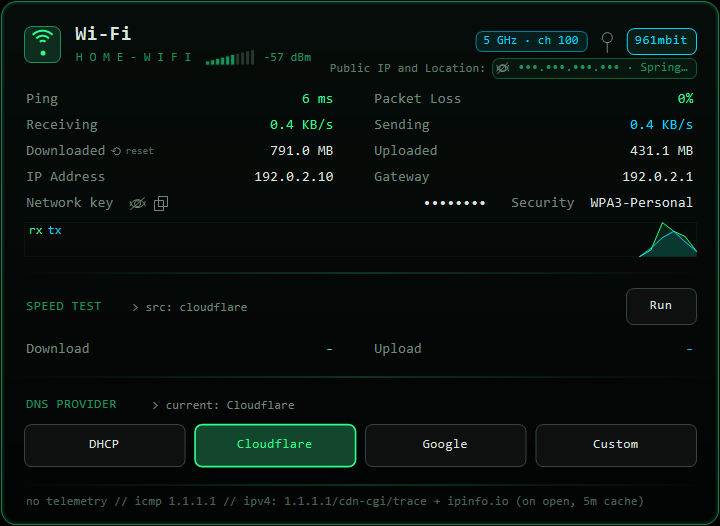
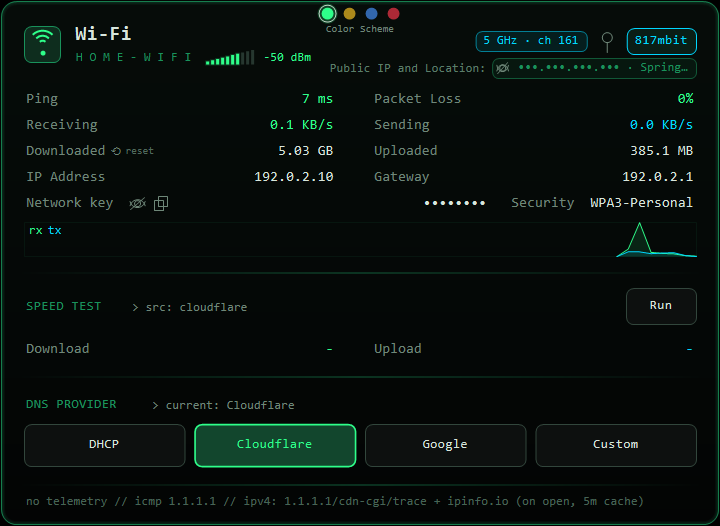
Add color scheme selector (green/yellow/blue/red), docs and v1.1.0 checksums

diff --git a/NetPanel.cs b/NetPanel.cs
@@ -14,7 +14,7 @@ class P{
   if(a.Length>0&&a[0]=="--trigger"){try{EventWaitHandle.OpenExisting("NetPanel_"+P.U+"_test").Set();}catch{return 2;}return 0;}
   if(!created&&shot==null) return 0;
   Application.EnableVisualStyles();
-  if(shot!=null){var f=new Panel();f.Shot(shot,speed);return 0;}
+  if(shot!=null){var f=new Panel();int ti=Array.IndexOf(a,"--theme");if(ti>=0&&ti+1<a.Length){int tv=Array.IndexOf(Th.Names,a[ti+1]);if(tv>=0)Th.Id=tv;}if(a.Contains("--demo"))Demo=true;f.Shot(shot,speed);return 0;}
   new Tray();Application.Run();GC.KeepAlive(m);return 0;}
  static int SetDns(string[] a){ // --setdns ifIndex mode [servers...]
   string idx=a[1],mode=a[2];string cmd;
@@ -31,11 +31,28 @@ class P{
   return NetworkInterface.GetAllNetworkInterfaces().FirstOrDefault(n=>n.OperationalStatus==OperationalStatus.Up&&n.NetworkInterfaceType!=NetworkInterfaceType.Loopback);}
  public static int Index(NetworkInterface n){try{return n.GetIPProperties().GetIPv4Properties().Index;}catch{return -1;}}
 }
+// ---------- colour themes ----------
+// 0 green (original colours, returned unchanged), 1 yellow, 2 blue, 3 red. Other themes hue-rotate the green palette.
+static class Th{
+ public static int Id;public static readonly string[] Names={"green","yellow","blue","red"};
+ static readonly double[] Hue={0,45,215,354},Lit={0,-0.02,0.05,0.02};static Dictionary<int,Color> cache=new Dictionary<int,Color>();
+ public static Color C(int r,int g,int b){return C(255,r,g,b);}
+ public static Color C(int a,int r,int g,int b){if(Id==0)return Color.FromArgb(a,r,g,b);int key=(Id<<24)|(r<<16)|(g<<8)|b;Color c;
+  lock(cache){if(!cache.TryGetValue(key,out c)){c=Rot(r,g,b);cache[key]=c;}}return Color.FromArgb(a,c);}
+ public static Color Sec{get{return Id==2?Color.FromArgb(190,150,255):Color.FromArgb(0,215,255);}}
+ public static Color Bad{get{return Id==3?Color.FromArgb(255,196,0):Color.FromArgb(255,90,90);}}
+ public static Color Swatch(int t){int o=Id;Id=t;var c=C(46,255,138);Id=o;return c;}
+ static Color Rot(int r,int g,int b){double R=r/255.0,G=g/255.0,B=b/255.0,mx=Math.Max(R,Math.Max(G,B)),mn=Math.Min(R,Math.Min(G,B)),l=(mx+mn)/2,h=0,s=0,d=mx-mn;
+  if(d>0){s=l>0.5?d/(2-mx-mn):d/(mx+mn);if(mx==R)h=((G-B)/d)%6;else if(mx==G)h=(B-R)/d+2;else h=(R-G)/d+4;h*=60;if(h<0)h+=360;}
+  h=Hue[Id];if(s>0.3)l=Math.Max(0,Math.Min(1,l+Lit[Id]*(l>0.25?1:0.3)));
+  double q=l<0.5?l*(1+s):l+s-l*s,p=2*l-q;Func<double,double> f=t=>{if(t<0)t+=1;if(t>1)t-=1;return t<1/6.0?p+(q-p)*6*t:t<0.5?q:t<2/3.0?p+(q-p)*(2/3.0-t)*6:p;};
+  return Color.FromArgb((int)Math.Round(f(h/360+1/3.0)*255),(int)Math.Round(f(h/360)*255),(int)Math.Round(f(h/360-1/3.0)*255));}
+}
 class Tray{
  NotifyIcon ni=new NotifyIcon();Panel panel;System.Windows.Forms.Timer t=new System.Windows.Forms.Timer();long lr,lt;IntPtr hi;
  public Tray(){
   panel=new Panel();ni.Text="NetPanel";Upd(0,0);ni.Visible=true;
-  var cm=new ContextMenuStrip();cm.Renderer=new ToolStripProfessionalRenderer(new DarkColors());cm.BackColor=Color.FromArgb(12,14,13);cm.ForeColor=Color.FromArgb(46,255,138);cm.Font=new Font("Consolas",10);
+  var cm=new ContextMenuStrip();cm.Renderer=new ToolStripProfessionalRenderer(new DarkColors());cm.BackColor=Th.C(12,14,13);cm.ForeColor=Th.C(46,255,138);Panel.ThemeChanged=()=>{cm.BackColor=Th.C(12,14,13);cm.ForeColor=Th.C(46,255,138);Upd(0,0);};cm.Font=new Font("Consolas",10);
   cm.Items.Add("Open",null,(s,e)=>panel.ShowNear());
   var st=new ToolStripMenuItem("Start with Windows"){Checked=Auto,CheckOnClick=true};st.Click+=(s,e)=>Auto=st.Checked;cm.Items.Add(st);
   cm.Items.Add("Exit",null,(s,e)=>{ni.Visible=false;Application.Exit();});ni.ContextMenuStrip=cm;
@@ -47,19 +64,19 @@ class Tray{
   set{using(var k=Registry.CurrentUser.CreateSubKey(@"Software\Microsoft\Windows\CurrentVersion\Run")){if(value)k.SetValue("NetPanel","\""+Application.ExecutablePath+"\"");else k.DeleteValue("NetPanel",false);}}}
  void Upd(long rx,long tx){
   var b=new Bitmap(32,32);using(var g=Graphics.FromImage(b)){g.SmoothingMode=SmoothingMode.AntiAlias;g.Clear(Color.Transparent);
-   using(var br=new SolidBrush(Color.FromArgb(10,20,14)))g.FillEllipse(br,1,1,30,30);using(var pn=new Pen(Color.FromArgb(25,146,91),3))g.DrawEllipse(pn,2,2,28,28);
+   using(var br=new SolidBrush(Th.C(10,20,14)))g.FillEllipse(br,1,1,30,30);using(var pn=new Pen(Th.C(25,146,91),3))g.DrawEllipse(pn,2,2,28,28);
    int h1=(int)Math.Min(18,2+Math.Log10(1+rx/1024.0)*4),h2=(int)Math.Min(18,2+Math.Log10(1+tx/1024.0)*4);
-   g.FillRectangle(new SolidBrush(Color.FromArgb(46,255,138)),9,24-h1,6,h1);g.FillRectangle(new SolidBrush(Color.FromArgb(0,215,255)),17,24-h2,6,h2);}
+   g.FillRectangle(new SolidBrush(Th.C(46,255,138)),9,24-h1,6,h1);g.FillRectangle(new SolidBrush(Th.Sec),17,24-h2,6,h2);}
   var old=hi;hi=b.GetHicon();ni.Icon=Icon.FromHandle(hi);b.Dispose();if(old!=IntPtr.Zero)DestroyIcon_(old);
   ni.Text="NetPanel  \u2193"+Panel.Rate(rx/2)+" \u2191"+Panel.Rate(tx/2);}
  [DllImport("user32.dll",EntryPoint="DestroyIcon")] static extern bool DestroyIcon_(IntPtr h);
 }
-class DarkColors:ProfessionalColorTable{public override Color MenuItemSelected{get{return Color.FromArgb(20,60,40);}}public override Color MenuItemBorder{get{return Color.FromArgb(25,146,91);}}
- public override Color MenuBorder{get{return Color.FromArgb(25,146,91);}}public override Color ToolStripDropDownBackground{get{return Color.FromArgb(12,14,13);}}
- public override Color ImageMarginGradientBegin{get{return Color.FromArgb(12,14,13);}}public override Color ImageMarginGradientMiddle{get{return Color.FromArgb(12,14,13);}}public override Color ImageMarginGradientEnd{get{return Color.FromArgb(12,14,13);}}
- public override Color MenuItemSelectedGradientBegin{get{return Color.FromArgb(20,60,40);}}public override Color MenuItemSelectedGradientEnd{get{return Color.FromArgb(20,60,40);}}}
+class DarkColors:ProfessionalColorTable{public override Color MenuItemSelected{get{return Th.C(20,60,40);}}public override Color MenuItemBorder{get{return Th.C(25,146,91);}}
+ public override Color MenuBorder{get{return Th.C(25,146,91);}}public override Color ToolStripDropDownBackground{get{return Th.C(12,14,13);}}
+ public override Color ImageMarginGradientBegin{get{return Th.C(12,14,13);}}public override Color ImageMarginGradientMiddle{get{return Th.C(12,14,13);}}public override Color ImageMarginGradientEnd{get{return Th.C(12,14,13);}}
+ public override Color MenuItemSelectedGradientBegin{get{return Th.C(20,60,40);}}public override Color MenuItemSelectedGradientEnd{get{return Th.C(20,60,40);}}}
 class Panel:Form{
- static Color BG=Color.FromArgb(9,11,10),EM=Color.FromArgb(25,146,91),HI=Color.FromArgb(46,255,138),CY=Color.FromArgb(0,215,255),DIM=Color.FromArgb(110,135,120),TX=Color.FromArgb(215,230,220);
+ static Color BG{get{return Th.C(9,11,10);}} static Color EM{get{return Th.C(25,146,91);}} static Color HI{get{return Th.C(46,255,138);}} static Color CY{get{return Th.Sec;}} static Color DIM{get{return Th.C(110,135,120);}} static Color TX{get{return Th.C(215,230,220);}}
  Font fT=new Font("Consolas",15,FontStyle.Bold),fS=new Font("Consolas",9),fN=new Font("Consolas",10.5f),fB=new Font("Consolas",10);
  System.Windows.Forms.Timer tick=new System.Windows.Forms.Timer(),pingT=new System.Windows.Forms.Timer();
  NetworkInterface nic;long lr=-1,lt=-1;double rxR,txR;long totR,totT;string ip="-",gw="-",name="-",speedBadge="",dnsCur="?";int ifIdx=-1;
@@ -76,7 +93,7 @@ class Panel:Form{
   MouseClick+=(s,e)=>Click1(Hit(e.Location));
   var path=Rnd(new RectangleF(0,0,Width,Height),16);Region=new Region(path);}
  protected override CreateParams CreateParams{get{var c=base.CreateParams;c.ExStyle|=0x80;return c;}}
- int Hit(Point p){if(runR.Contains(p))return -1;if(resetR.Contains(p))return 10;if(pinR.Contains(p))return 11;if(isWifi&&eyeR.Contains(p))return 12;if(isWifi&&copyR.Contains(p))return 13;if(ipEyeR.Contains(p))return 15;if(ipR.Contains(p))return 14;for(int i=0;i<4;i++)if(dnsR[i].Contains(p))return i;return -2;}
+ int Hit(Point p){if(runR.Contains(p))return -1;if(resetR.Contains(p))return 10;if(pinR.Contains(p))return 11;if(isWifi&&eyeR.Contains(p))return 12;if(isWifi&&copyR.Contains(p))return 13;if(ipEyeR.Contains(p))return 15;if(ipR.Contains(p))return 14;for(int i=0;i<4;i++)if(dnsR[i].Contains(p))return i;for(int i=0;i<4;i++)if(thR[i].Contains(p))return 20+i;return -2;}
  public void ShowNear(){var wa=Screen.PrimaryScreen.WorkingArea;if(pinned&&px!=int.MinValue&&Screen.AllScreens.Any(sc=>sc.WorkingArea.Contains(px+20,py+20)))Location=new Point(px,py);else Location=new Point(wa.Right-Width-12,wa.Bottom-Height-12);Show();Activate();}
  public static string Rate(double b){return b>=1e9?(b/1e9).ToString("0.00")+" GB/s":b>=1e6?(b/1e6).ToString("0.0")+" MB/s":(b/1e3).ToString("0.0")+" KB/s";}
  static string Sz(double b){return b>=1e12?(b/1e12).ToString("0.00")+" TB":b>=1e9?(b/1e9).ToString("0.00")+" GB":(b/1e6).ToString("0.0")+" MB";}
@@ -106,7 +123,7 @@ class Panel:Form{
  void DoPing(){var pg=new Ping();pg.PingCompleted+=(s,e)=>{long v=(e.Error==null&&e.Reply!=null&&e.Reply.Status==IPStatus.Success)?e.Reply.RoundtripTime:-1;
    lock(pings){pings.Enqueue(v);while(pings.Count>20)pings.Dequeue();}if(v>=0)lastPing=v;pg.Dispose();if(IsHandleCreated)BeginInvoke((Action)Invalidate);};
   try{pg.SendAsync(IPAddress.Parse("1.1.1.1"),1500,null);}catch{}}
- void Click1(int h){if(h==15){ipMask=!ipMask;Invalidate();return;}if(h==14){if(pubIp!=null){try{Clipboard.SetText(pubIp);status="public ip copied to clipboard";}catch{}Invalidate();}else if(ipState=="offline")MaybeIp(true);return;}if(h==10){DoReset();return;}if(h==11){pinned=!pinned;if(pinned){px=Left;py=Top;}SaveSettings();Invalidate();return;}if(h==12){if(reveal){reveal=false;Invalidate();}else FetchKey(()=>{reveal=true;});return;}if(h==13){FetchKey(()=>{try{Clipboard.SetText(wkey);status="network key copied to clipboard";}catch{}});return;}if(h==-1&&!testing)RunSpeed();else if(h>=0)SetDns(h);}
+ void Click1(int h){if(h>=20&&h<=23){SetTheme(h-20);return;}if(h==15){ipMask=!ipMask;Invalidate();return;}if(h==14){if(pubIp!=null){try{Clipboard.SetText(pubIp);status="public ip copied to clipboard";}catch{}Invalidate();}else if(ipState=="offline")MaybeIp(true);return;}if(h==10){DoReset();return;}if(h==11){pinned=!pinned;if(pinned){px=Left;py=Top;}SaveSettings();Invalidate();return;}if(h==12){if(reveal){reveal=false;Invalidate();}else FetchKey(()=>{reveal=true;});return;}if(h==13){FetchKey(()=>{try{Clipboard.SetText(wkey);status="network key copied to clipboard";}catch{}});return;}if(h==-1&&!testing)RunSpeed();else if(h>=0)SetDns(h);}
  // ---------- speed test ----------
  public Task RunSpeed(){testing=true;dlM=ulM=-1;Invalidate();return Task.Run(()=>{try{
    ServicePointManager.SecurityProtocol|=SecurityProtocolType.Tls12;ServicePointManager.DefaultConnectionLimit=32;ServicePointManager.Expect100Continue=false;
@@ -164,43 +181,53 @@ class Panel:Form{
  static GraphicsPath Rnd(RectangleF r,float rad){var p=new GraphicsPath();float d=rad*2;p.AddArc(r.X,r.Y,d,d,180,90);p.AddArc(r.Right-d,r.Y,d,d,270,90);p.AddArc(r.Right-d,r.Bottom-d,d,d,0,90);p.AddArc(r.X,r.Bottom-d,d,d,90,90);p.CloseFigure();return p;}
  void Row(Graphics g,float y,string k1,string v1,string k2,string v2,Color c1,Color c2){var R=new StringFormat{Alignment=StringAlignment.Far};
   float half=Width/2f;g.DrawString(k1,fN,new SolidBrush(DIM),24,y);g.DrawString(v1,fN,new SolidBrush(c1),new RectangleF(24,y,half-48,20),R);g.DrawString(k2,fN,new SolidBrush(DIM),half+12,y);g.DrawString(v2,fN,new SolidBrush(c2),new RectangleF(half+12,y,half-36,20),R);}
- void Btn(Graphics g,RectangleF r,string t,bool active,bool hov){using(var p=Rnd(r,7)){g.FillPath(new SolidBrush(active?Color.FromArgb(18,70,45):hov?Color.FromArgb(20,30,25):Color.FromArgb(13,16,15)),p);
-  g.DrawPath(new Pen(active?HI:hov?EM:Color.FromArgb(50,70,60),active?1.6f:1f),p);}g.DrawString(t,fB,new SolidBrush(active?HI:TX),r,new StringFormat{Alignment=StringAlignment.Center,LineAlignment=StringAlignment.Center});}
- void Sep(Graphics g,float y){using(var br=new LinearGradientBrush(new PointF(20,y),new PointF(Width-20,y),Color.FromArgb(0,25,146,91),Color.FromArgb(0,25,146,91))){var cb=new ColorBlend{Colors=new[]{Color.FromArgb(0,25,146,91),Color.FromArgb(160,25,146,91),Color.FromArgb(0,25,146,91)},Positions=new[]{0f,.5f,1f}};br.InterpolationColors=cb;g.FillRectangle(br,20,y,Width-40,1);}}
+ void Btn(Graphics g,RectangleF r,string t,bool active,bool hov){using(var p=Rnd(r,7)){g.FillPath(new SolidBrush(active?Th.C(18,70,45):hov?Th.C(20,30,25):Th.C(13,16,15)),p);
+  g.DrawPath(new Pen(active?HI:hov?EM:Th.C(50,70,60),active?1.6f:1f),p);}g.DrawString(t,fB,new SolidBrush(active?HI:TX),r,new StringFormat{Alignment=StringAlignment.Center,LineAlignment=StringAlignment.Center});}
+ void Sep(Graphics g,float y){using(var br=new LinearGradientBrush(new PointF(20,y),new PointF(Width-20,y),Th.C(0,25,146,91),Th.C(0,25,146,91))){var cb=new ColorBlend{Colors=new[]{Th.C(0,25,146,91),Th.C(160,25,146,91),Th.C(0,25,146,91)},Positions=new[]{0f,.5f,1f}};br.InterpolationColors=cb;g.FillRectangle(br,20,y,Width-40,1);}}
  void Spark(Graphics g,List<double> h,RectangleF r,Color c){if(h.Count<2)return;double mx=Math.Max(1024,Math.Max(rxH.Max(),txH.Max()));var pts=new List<PointF>();
   for(int i=0;i<h.Count;i++)pts.Add(new PointF(r.Right-(h.Count-1-i)*(r.Width/59f),r.Bottom-(float)(Math.Sqrt(h[i]/mx)*r.Height)));
   var fill=new List<PointF>(pts){new PointF(pts.Last().X,r.Bottom),new PointF(pts[0].X,r.Bottom)};g.FillPolygon(new SolidBrush(Color.FromArgb(28,c)),fill.ToArray());g.DrawLines(new Pen(c,1.4f),pts.ToArray());}
  protected override void OnPaint(PaintEventArgs e){if(P.Demo){ip="192.0.2.10";gw="192.0.2.1";netName="HOME-WIFI";mac="00:00:5E:00:53:01";pubIp="203.0.113.7";pubLoc="Springfield";ipMask=true;reveal=false;}var g=e.Graphics;g.SmoothingMode=SmoothingMode.AntiAlias;g.TextRenderingHint=System.Drawing.Text.TextRenderingHint.ClearTypeGridFit;
-  var full=new RectangleF(0,0,Width-1,Height-1);using(var p=Rnd(full,16))using(var bg=new LinearGradientBrush(full,Color.FromArgb(6,12,9),Color.FromArgb(3,4,4),90f))g.FillPath(bg,p);
-  for(int i=4;i>=1;i--)using(var p=Rnd(new RectangleF(i,i,Width-1-2*i,Height-1-2*i),16-i))g.DrawPath(new Pen(Color.FromArgb(18*(5-i),25,146,91),1.5f),p);
-  using(var p=Rnd(new RectangleF(1,1,Width-3,Height-3),15))g.DrawPath(new Pen(Color.FromArgb(200,25,146,91),1.2f),p);
+  var full=new RectangleF(0,0,Width-1,Height-1);using(var p=Rnd(full,16))using(var bg=new LinearGradientBrush(full,Th.C(6,12,9),Th.C(3,4,4),90f))g.FillPath(bg,p);
+  for(int i=4;i>=1;i--)using(var p=Rnd(new RectangleF(i,i,Width-1-2*i,Height-1-2*i),16-i))g.DrawPath(new Pen(Th.C(18*(5-i),25,146,91),1.5f),p);
+  using(var p=Rnd(new RectangleF(1,1,Width-3,Height-3),15))g.DrawPath(new Pen(Th.C(200,25,146,91),1.2f),p);
   // header icon
-  bool wifi=isWifi;var ir=new RectangleF(24,26,36,36);using(var p=Rnd(ir,7)){g.FillPath(new SolidBrush(Color.FromArgb(14,45,30)),p);g.DrawPath(new Pen(EM,1.2f),p);}
+  bool wifi=isWifi;var ir=new RectangleF(24,26,36,36);using(var p=Rnd(ir,7)){g.FillPath(new SolidBrush(Th.C(14,45,30)),p);g.DrawPath(new Pen(EM,1.2f),p);}
   if(wifi){for(int i=0;i<3;i++)g.DrawArc(new Pen(HI,2f),33-i*5+5,35-i*5+5,8+i*10,8+i*10,225,90);g.FillEllipse(new SolidBrush(HI),40,50,5,5);}
-  else{g.FillRectangle(new SolidBrush(HI),31,37,22,14);g.FillRectangle(new SolidBrush(HI),36,51,12,4);for(int i=0;i<4;i++)g.FillRectangle(new SolidBrush(Color.FromArgb(14,45,30)),34+i*5,38,2,5);}
+  else{g.FillRectangle(new SolidBrush(HI),31,37,22,14);g.FillRectangle(new SolidBrush(HI),36,51,12,4);for(int i=0;i<4;i++)g.FillRectangle(new SolidBrush(Th.C(14,45,30)),34+i*5,38,2,5);}
   g.DrawString(name,fT,new SolidBrush(TX),72,22);var sub=offline?"N O   D E F A U L T   R O U T E":netName!=""?Spaced(netName):"N O   N E T W O R K";g.DrawString(sub,fS,new SolidBrush(EM),74,50);Meter(g,74+g.MeasureString(sub,fS).Width+12,49);
-  var bs=g.MeasureString(speedBadge,fB);var br2=new RectangleF(Width-24-bs.Width-12,28,bs.Width+12,26);pinR=new RectangleF(br2.X-30,30,20,22);Pin(g,pinR,pinned,hover==11);if(!offline||pubIp!=null)Chips(g,pinR.X-10);using(var p=Rnd(br2,7)){g.FillPath(new SolidBrush(Color.FromArgb(10,30,22)),p);g.DrawPath(new Pen(CY,1.2f),p);}
+  Bubbles(g);
+  var bs=g.MeasureString(speedBadge,fB);var br2=new RectangleF(Width-24-bs.Width-12,28,bs.Width+12,26);pinR=new RectangleF(br2.X-30,30,20,22);Pin(g,pinR,pinned,hover==11);if(!offline||pubIp!=null)Chips(g,pinR.X-10);using(var p=Rnd(br2,7)){g.FillPath(new SolidBrush(Th.C(10,30,22)),p);g.DrawPath(new Pen(CY,1.2f),p);}
   g.DrawString(speedBadge,fB,new SolidBrush(CY),br2,new StringFormat{Alignment=StringAlignment.Center,LineAlignment=StringAlignment.Center});
   int ok,cnt;lock(pings){cnt=pings.Count;ok=pings.Count(x=>x>=0);}string loss=cnt==0?"-":((cnt-ok)*100/cnt)+"%";
-  Row(g,90,"Ping",lastPing<0?"-":lastPing.ToString("0")+" ms","Packet Loss",loss,HI,loss=="0%"||loss=="-"?HI:Color.FromArgb(255,90,90));
+  Row(g,90,"Ping",lastPing<0?"-":lastPing.ToString("0")+" ms","Packet Loss",loss,HI,loss=="0%"||loss=="-"?HI:Th.Bad);
   Row(g,116,"Receiving",Rate(rxR),"Sending",Rate(txR),HI,CY);
   Row(g,142,"Downloaded",Sz(totR),"Uploaded",Sz(totT),TX,TX);Row(g,168,"IP Address",ip,"Gateway",gw,TX,TX);
-  resetR=new RectangleF(108,143,52,18);g.DrawString("reset",new Font("Consolas",7.5f),new SolidBrush(hover==10?HI:Color.FromArgb(80,105,92)),124,145);g.DrawString("⟲",new Font("Segoe UI Symbol",10),new SolidBrush(hover==10?HI:DIM),109,141);
+  resetR=new RectangleF(108,143,52,18);g.DrawString("reset",new Font("Consolas",7.5f),new SolidBrush(hover==10?HI:Th.C(80,105,92)),124,145);g.DrawString("⟲",new Font("Segoe UI Symbol",10),new SolidBrush(hover==10?HI:DIM),109,141);
   if(isWifi){string kv=keyErr!=null?keyErr:reveal&&wkey!=null?wkey:"••••••••";
    g.DrawString("Network key",fN,new SolidBrush(DIM),24,194);eyeR=new RectangleF(128,195,18,16);copyR=new RectangleF(152,195,18,16);Eye(g,eyeR,reveal,hover==12);CopyIco(g,copyR,hover==13);
    var secW=g.MeasureString("Security  "+auth,fN).Width;g.DrawString("Security",fN,new SolidBrush(DIM),Width-24-secW,194);g.DrawString(auth,fN,new SolidBrush(TX),new RectangleF(Width-24-secW,194,secW,20),new StringFormat{Alignment=StringAlignment.Far});
    keyR=new RectangleF(186,192,Width-24-secW-20-186,22);keyMode=DrawFit(g,kv,keyR,reveal?HI:TX);}
   else if(offline)Row(g,194,"Status","no default route","Link","down",DIM,DIM);
   else{g.DrawString("Adapter",fN,new SolidBrush(DIM),24,194);float half=Width/2f;DrawFit(g,desc,new RectangleF(100,192,half-48-76,22),TX);Row(g,194,"","","MAC",mac,TX,TX);}
-  var sr=new RectangleF(24,222,Width-48,34);g.DrawRectangle(new Pen(Color.FromArgb(25,25,146,91)),sr.X,sr.Y,sr.Width,sr.Height);Spark(g,rxH,sr,HI);Spark(g,txH,sr,CY);
+  var sr=new RectangleF(24,222,Width-48,34);g.DrawRectangle(new Pen(Th.C(25,25,146,91)),sr.X,sr.Y,sr.Width,sr.Height);Spark(g,rxH,sr,HI);Spark(g,txH,sr,CY);
   g.DrawString("rx",fS,new SolidBrush(HI),sr.X+3,sr.Y+1);g.DrawString("tx",fS,new SolidBrush(CY),sr.X+22,sr.Y+1);
   Sep(g,272);g.DrawString("SPEED TEST",fB,new SolidBrush(EM),24,298);g.DrawString(testing?"> "+stPhase+" "+(int)(stProg*100)+"% "+(stPhase=="DOWNLOAD"?dlSrc:"cloudflare"):"> src: "+dlSrc,fS,new SolidBrush(DIM),130,300);
   runR=new RectangleF(Width-24-70,288,70,36);Btn(g,runR,testing?"...":"Run",testing,hover==-1);
-  if(testing){var pb=new RectangleF(24,328,Width-48,3);g.FillRectangle(new SolidBrush(Color.FromArgb(25,40,32)),pb);g.FillRectangle(new SolidBrush(stPhase=="UPLOAD"?CY:HI),pb.X,pb.Y,(float)(pb.Width*stProg),3);}
+  if(testing){var pb=new RectangleF(24,328,Width-48,3);g.FillRectangle(new SolidBrush(Th.C(25,40,32)),pb);g.FillRectangle(new SolidBrush(stPhase=="UPLOAD"?CY:HI),pb.X,pb.Y,(float)(pb.Width*stProg),3);}
   Row(g,340,"Download",dlM==-2?"error: "+(dlErr??"?"):dlM<0?"-":dlM.ToString("0")+" Mbps","Upload",ulM<0?"-":ulM.ToString("0")+" Mbps",HI,CY);
   Sep(g,376);g.DrawString("DNS PROVIDER",fB,new SolidBrush(EM),24,396);g.DrawString("> current: "+dnsCur,fS,new SolidBrush(DIM),150,398);
   float bw=(Width-48-3*10)/4f;for(int i=0;i<4;i++){dnsR[i]=new RectangleF(24+i*(bw+10),424,bw,42);Btn(g,dnsR[i],dnsN[i],dnsCur==dnsN[i],hover==i);}
-  Sep(g,484);g.DrawString(status!=""?status:"no telemetry // icmp 1.1.1.1 // ipv4: "+(ipSrc??"1.1.1.1/cdn-cgi/trace + ipinfo.io")+" (on open, 5m cache)",fS,new SolidBrush(Color.FromArgb(70,100,85)),24,494);}
+  Sep(g,484);g.DrawString(status!=""?status:"no telemetry // icmp 1.1.1.1 // ipv4: "+(ipSrc??"1.1.1.1/cdn-cgi/trace + ipinfo.io")+" (on open, 5m cache)",fS,new SolidBrush(Th.C(70,100,85)),24,494);}
+ // ---------- theme bubbles (hit codes 20-23) ----------
+ RectangleF[] thR=new RectangleF[4];public static Action ThemeChanged;int themeSaved;
+ void Bubbles(Graphics g){const float D=12,GAP=10;float x0=Width/2f-(4*D+3*GAP)/2f,y=7;
+  for(int i=0;i<4;i++){var r=new RectangleF(x0+i*(D+GAP),y,D,D);thR[i]=RectangleF.Inflate(r,4,4);var c=Th.Swatch(i);bool sel=Th.Id==i,hov=hover==20+i;
+   if(sel)using(var gp=new SolidBrush(Color.FromArgb(60,c)))g.FillEllipse(gp,RectangleF.Inflate(r,4,4));
+   using(var b=new SolidBrush(sel||hov?c:Color.FromArgb(170,c)))g.FillEllipse(b,r);
+   if(sel)using(var pn=new Pen(Color.FromArgb(230,TX),1.3f))g.DrawEllipse(pn,RectangleF.Inflate(r,2.5f,2.5f));else if(hov)using(var pn=new Pen(Color.FromArgb(150,c),1f))g.DrawEllipse(pn,RectangleF.Inflate(r,2.5f,2.5f));}
+  var lf=new Font("Consolas",7.5f);g.DrawString("Color Scheme",lf,new SolidBrush(DIM),new RectangleF(Width/2f-60,23,120,12),new StringFormat{Alignment=StringAlignment.Center});lf.Dispose();}
+ void SetTheme(int t){if(t<0||t>3)return;Th.Id=t;themeSaved=t;SaveSettings();if(ThemeChanged!=null)ThemeChanged();Invalidate();}
  bool shooting;
 
  [DllImport("user32.dll")] static extern bool ReleaseCapture();[DllImport("user32.dll")] static extern IntPtr SendMessage(IntPtr h,int m,IntPtr w,IntPtr l);
@@ -208,9 +235,9 @@ class Panel:Form{
  bool isWifi,reveal;string wkey,keyErr,netName="",auth="-",netFor;DateTime netQ;RectangleF resetR,pinR,eyeR,copyR;
  string SetPath{get{return Path.Combine(P.Dir,"settings");}}
  void LoadSettings(){try{foreach(var l in File.ReadAllLines(SetPath)){var kv=l.Split(new[]{'='},2);if(kv.Length<2)continue;
-   if(kv[0]=="pinned")pinned=kv[1]=="1";else if(kv[0]=="pos"){var p=kv[1].Split(',');px=int.Parse(p[0]);py=int.Parse(p[1]);}
+   if(kv[0]=="pinned")pinned=kv[1]=="1";else if(kv[0]=="theme"){int tv;if(int.TryParse(kv[1],out tv)&&tv>=0&&tv<4){Th.Id=tv;themeSaved=tv;}}else if(kv[0]=="pos"){var p=kv[1].Split(',');px=int.Parse(p[0]);py=int.Parse(p[1]);}
    else if(kv[0].StartsWith("base.")){var p=kv[1].Split(',');bases[kv[0].Substring(5)]=new[]{long.Parse(p[0]),long.Parse(p[1])};}}}catch{}}
- void SaveSettings(){try{Directory.CreateDirectory(P.Dir);var L=new List<string>{"pinned="+(pinned?"1":"0")};if(px!=int.MinValue)L.Add("pos="+px+","+py);
+ void SaveSettings(){try{Directory.CreateDirectory(P.Dir);var L=new List<string>{"pinned="+(pinned?"1":"0")};if(themeSaved!=0)L.Add("theme="+themeSaved);if(px!=int.MinValue)L.Add("pos="+px+","+py);
    foreach(var kv in bases)L.Add("base."+kv.Key+"="+kv.Value[0]+","+kv.Value[1]);File.WriteAllLines(SetPath,L);}catch{}}
  public void DoReset(){if(nic==null)return;var s=nic.GetIPStatistics();bases[nic.Id]=new[]{s.BytesReceived,s.BytesSent};SaveSettings();Refresh1();}
  void OnDeact(){if(!shooting&&!pinned)Hide();}
@@ -268,7 +295,7 @@ class Panel:Form{
   const int N=10;int lit=(int)Math.Round(shownLvl*N);double pulse=0.75+0.25*Math.Sin(DateTime.Now.TimeOfDay.TotalMilliseconds/450.0);
   for(int i=0;i<N;i++){float h=3+i*1.3f,bx=x+i*5,by=y+15-h;bool on=i<lit;
    if(on){g.FillRectangle(new SolidBrush(Color.FromArgb((int)(45*pulse),c)),bx-1,by-1,5,h+2);g.FillRectangle(new SolidBrush(c),bx,by,3,h);}
-   else g.FillRectangle(new SolidBrush(Color.FromArgb(38,55,47)),bx,by,3,h);}
+   else g.FillRectangle(new SolidBrush(Th.C(38,55,47)),bx,by,3,h);}
   g.DrawString((rssiSrc=="~quality"?"~":"")+rssi+" dBm",fS,new SolidBrush(c),x+N*5+6,y+1);}
  public RectangleF keyR;public string keyMode="";ToolTip tip=new ToolTip();
  string DrawFit(Graphics g,string t,RectangleF r,Color c){string mode="fit";Font f=fN;var sf=new StringFormat(StringFormatFlags.NoWrap){Alignment=StringAlignment.Far,LineAlignment=StringAlignment.Center};
@@ -302,7 +329,7 @@ class Panel:Form{
   Func<string,string> mk=l=>head+(l==""?"":" \u00b7 "+l);string it=mk(lc);
   while(lc.Length>0&&g.MeasureString(it,fS).Width+30+lw+6>R2-maxLeft){lc=lc.Substring(0,lc.Length-1);it=mk(lc==""?"":lc.TrimEnd(' ',',')+"\u2026");}
   float x=Chip(g,R2,it,ic,hover==14,18,58);ipR=new RectangleF(x+18,58,R2-x-18,20);ipEyeR=new RectangleF(x+2,58,16,20);
-  if(x-lw-6>=maxLeft-4)g.DrawString(LBL,fS,new SolidBrush(Color.FromArgb(90,125,105)),x-lw-4,61);
+  if(x-lw-6>=maxLeft-4)g.DrawString(LBL,fS,new SolidBrush(Th.C(90,125,105)),x-lw-4,61);
   if(pubIp!=null)Eye(g,new RectangleF(x+3,60,14,15),!ipMask,hover==15);}
  public void SelfTest(){shooting=true;ShowNear();RunSpeed().ContinueWith(_=>BeginInvoke((Action)(()=>{Refresh1();var p=Path.Combine(P.Dir,"shot.png");var b=new Bitmap(Width,Height);DrawToBitmap(b,new Rectangle(0,0,Width,Height));b.Save(p);b.Dispose();
    File.WriteAllText(Path.Combine(P.Dir,"shot.txt"),"tray dl="+dlM.ToString("0.0")+" src="+dlSrc+" err="+dlErr+" ul="+ulM.ToString("0.0"));shooting=false;})));}

diff --git a/README.md b/README.md
@@ -25,8 +25,26 @@ Inspired by the Omarchy network panel — dark, emerald, Consolas, one click awa
 - **Public IPv4 & location** chip — click to copy, eye icon to mask, cached for 5 minutes.
 - **Speed test** — multi-stream download/upload against Cloudflare (Hetzner fallback for download).
 - **One-click DNS** — DHCP, Cloudflare, Google or Custom, applied through an elevated helper (UAC prompt) with a backup of the previous servers.
+- **Color schemes** — four bubbles at the top of the panel switch the accent instantly between **green** (default), **yellow**, **blue** and **red**; the choice is remembered. See [Color schemes](#-color-schemes).
 - **Pin & drag** the panel anywhere; **Start with Windows** toggle in the tray menu.
 - Single ~64 KB exe, no installer, no runtime to download, no admin required (except when changing DNS).
+
+## ◐ Color schemes
+
+Click one of the four bubbles under the top edge of the panel (labelled *Color Scheme*) to recolor it. The selected bubble shows a ring.
+
+| Theme | Accent | Upload / tx color |
+|---|---|---|
+| Green (default) | emerald, the original look | cyan |
+| Yellow | amber/gold | cyan |
+| Blue | azure | violet (cyan would clash with blue) |
+| Red | crimson | cyan |
+
+The theme recolors the text highlights, active button, borders, signal meter, graph, icons, the tray icon and the tray menu. The choice is saved as `theme=` in `%LOCALAPPDATA%\NetPanel\settings` and restored on the next start. In the red theme, packet loss is shown in amber so that it still stands out.
+
+![The four color schemes](docs/themes.png)
+
+<sub>Screenshots use dummy values.</sub>
 
 ## ⇩ Install
 
@@ -37,7 +55,7 @@ Inspired by the Omarchy network panel — dark, emerald, Consolas, one click awa
 > **SmartScreen:** the exe is not code-signed, so Windows may show *"Windows protected your PC"*.
 > Click **More info → Run anyway**. You can also build it yourself from source (below) in a few seconds.
 
-Prefer a scripted install? Download `NetPanel-v1.0.1.zip`, extract, and run:
+Prefer a scripted install? Download `NetPanel-v1.1.0.zip`, extract, and run:
 
 ```powershell
 powershell -ExecutionPolicy Bypass -File .\install.ps1
@@ -47,7 +65,7 @@ This copies the exe to `%LOCALAPPDATA%\Programs\NetPanel`, unblocks it, adds a p
 
 ### Verify the download
 
-Each release includes `SHA256SUMS` (also as `SHA256SUMS.txt`), listing hashes of `NetPanel.exe` and the zip. A copy for the latest release (v1.0.1) is in this repo as [`SHA256SUMS`](SHA256SUMS). Compare with:
+Each release includes `SHA256SUMS` (also as `SHA256SUMS.txt`), listing hashes of `NetPanel.exe` and the zip. A copy for the latest release (v1.1.0) is in this repo as [`SHA256SUMS`](SHA256SUMS). Compare with:
 
 ```powershell
 Get-FileHash .\NetPanel.exe -Algorithm SHA256
@@ -70,7 +88,7 @@ No telemetry, no accounts, no analytics. The only network traffic NetPanel gener
 | Only when you click **Run** | `speed.cloudflare.com` (fallback `ash-speed.hetzner.com`) | speed test |
 
 The Wi-Fi key is read locally via `netsh` only when you click reveal/copy and is kept in memory only.
-Local files live in `%LOCALAPPDATA%\NetPanel`: `settings` (pin/position/counter baseline) and `dns-backup.txt` (written only when you change DNS); `speedtest.log` only if you run with `--log`.
+Local files live in `%LOCALAPPDATA%\NetPanel`: `settings` (pin/position/counter baseline/color scheme) and `dns-backup.txt` (written only when you change DNS); `speedtest.log` only if you run with `--log`.
 
 ## 🛠 Build from source
 
@@ -91,6 +109,8 @@ build.cmd
 | `--log` (or `NETPANEL_LOG=1`) | write speed-test diagnostics to `%LOCALAPPDATA%\NetPanel\speedtest.log` |
 | `--dev` (or `NETPANEL_DEV=1`) | enable the test hook: while a `--dev` instance is running, `NetPanel.exe --trigger` makes it run a speed test and saves a screenshot to `%LOCALAPPDATA%\NetPanel`; if a `cmd.txt` exists there it runs that command instead (`demo` = render with dummy values, `force=ethernet` = preview Ethernet mode once) |
 | `--shot <file.png> [--speed]` | render the panel to a PNG (plus a `.txt` summary) without the tray, optionally after a speed test |
+| `--shot … --theme <green\|yellow\|blue\|red>` | render with that color scheme (not saved to settings) |
+| `--shot … --demo` | render with dummy values (documentation IPs, fake SSID/location), useful for screenshots |
 
 The hook is inactive in normal runs.
 
